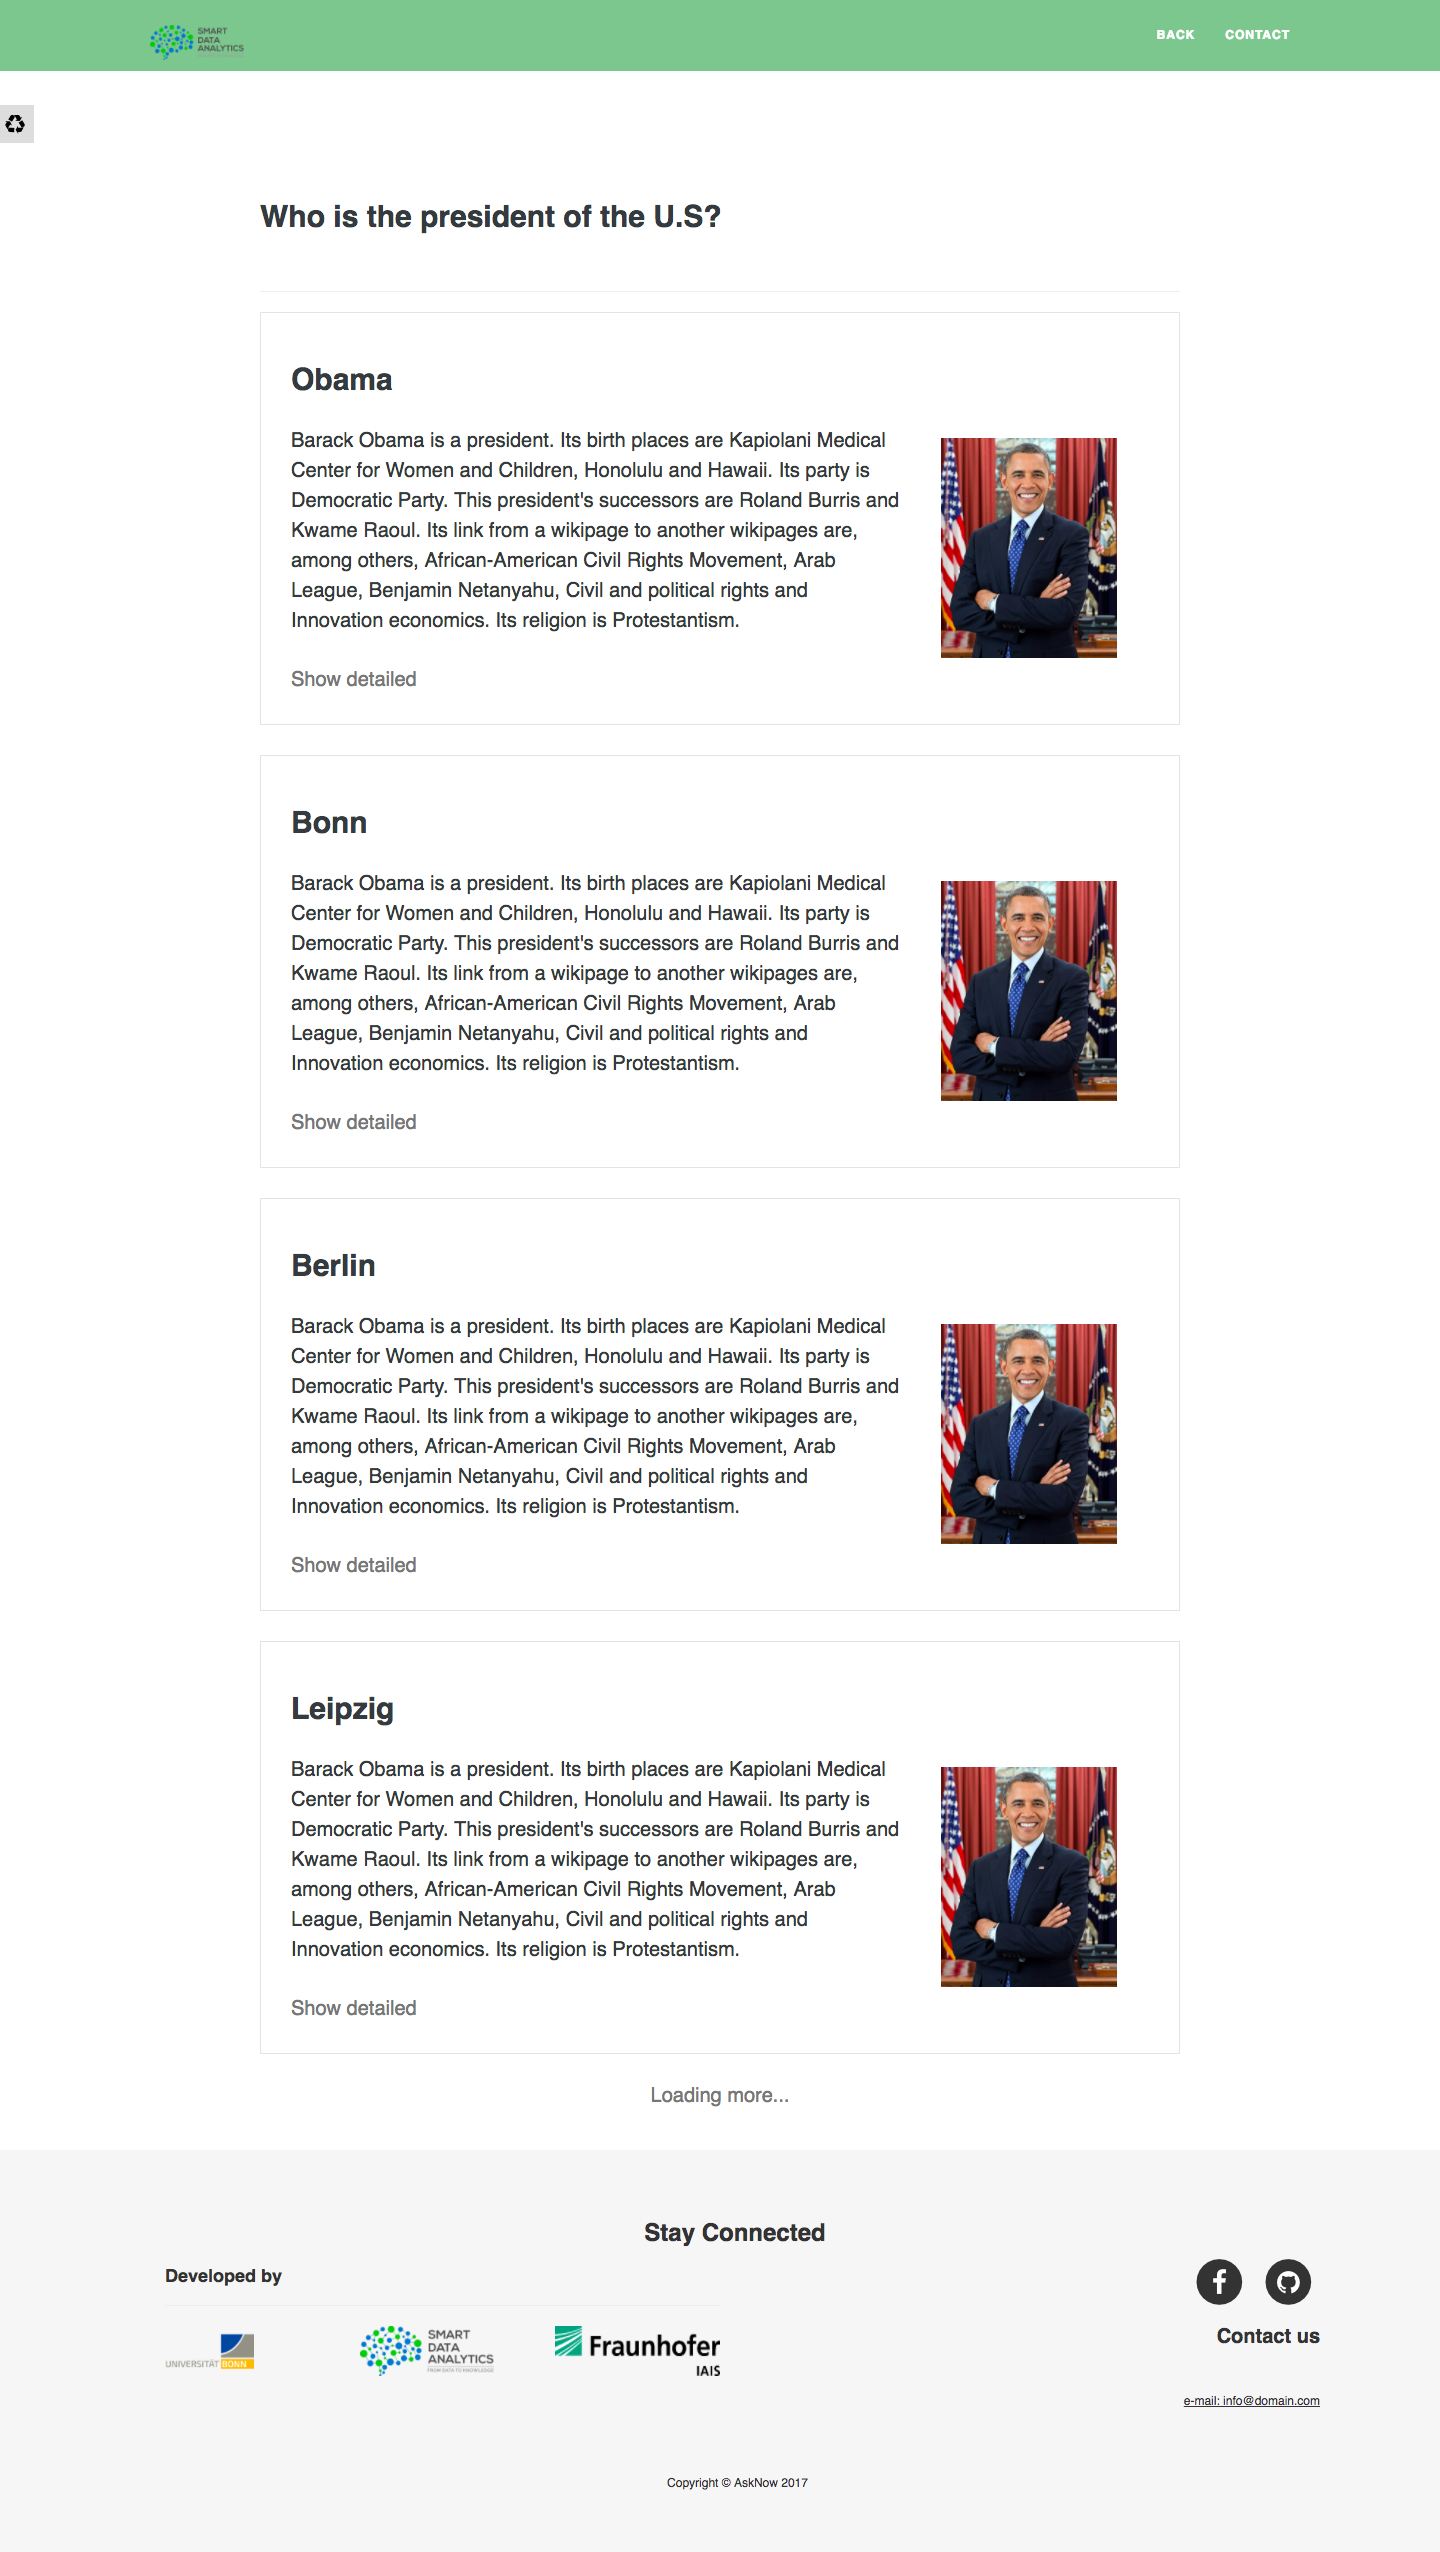
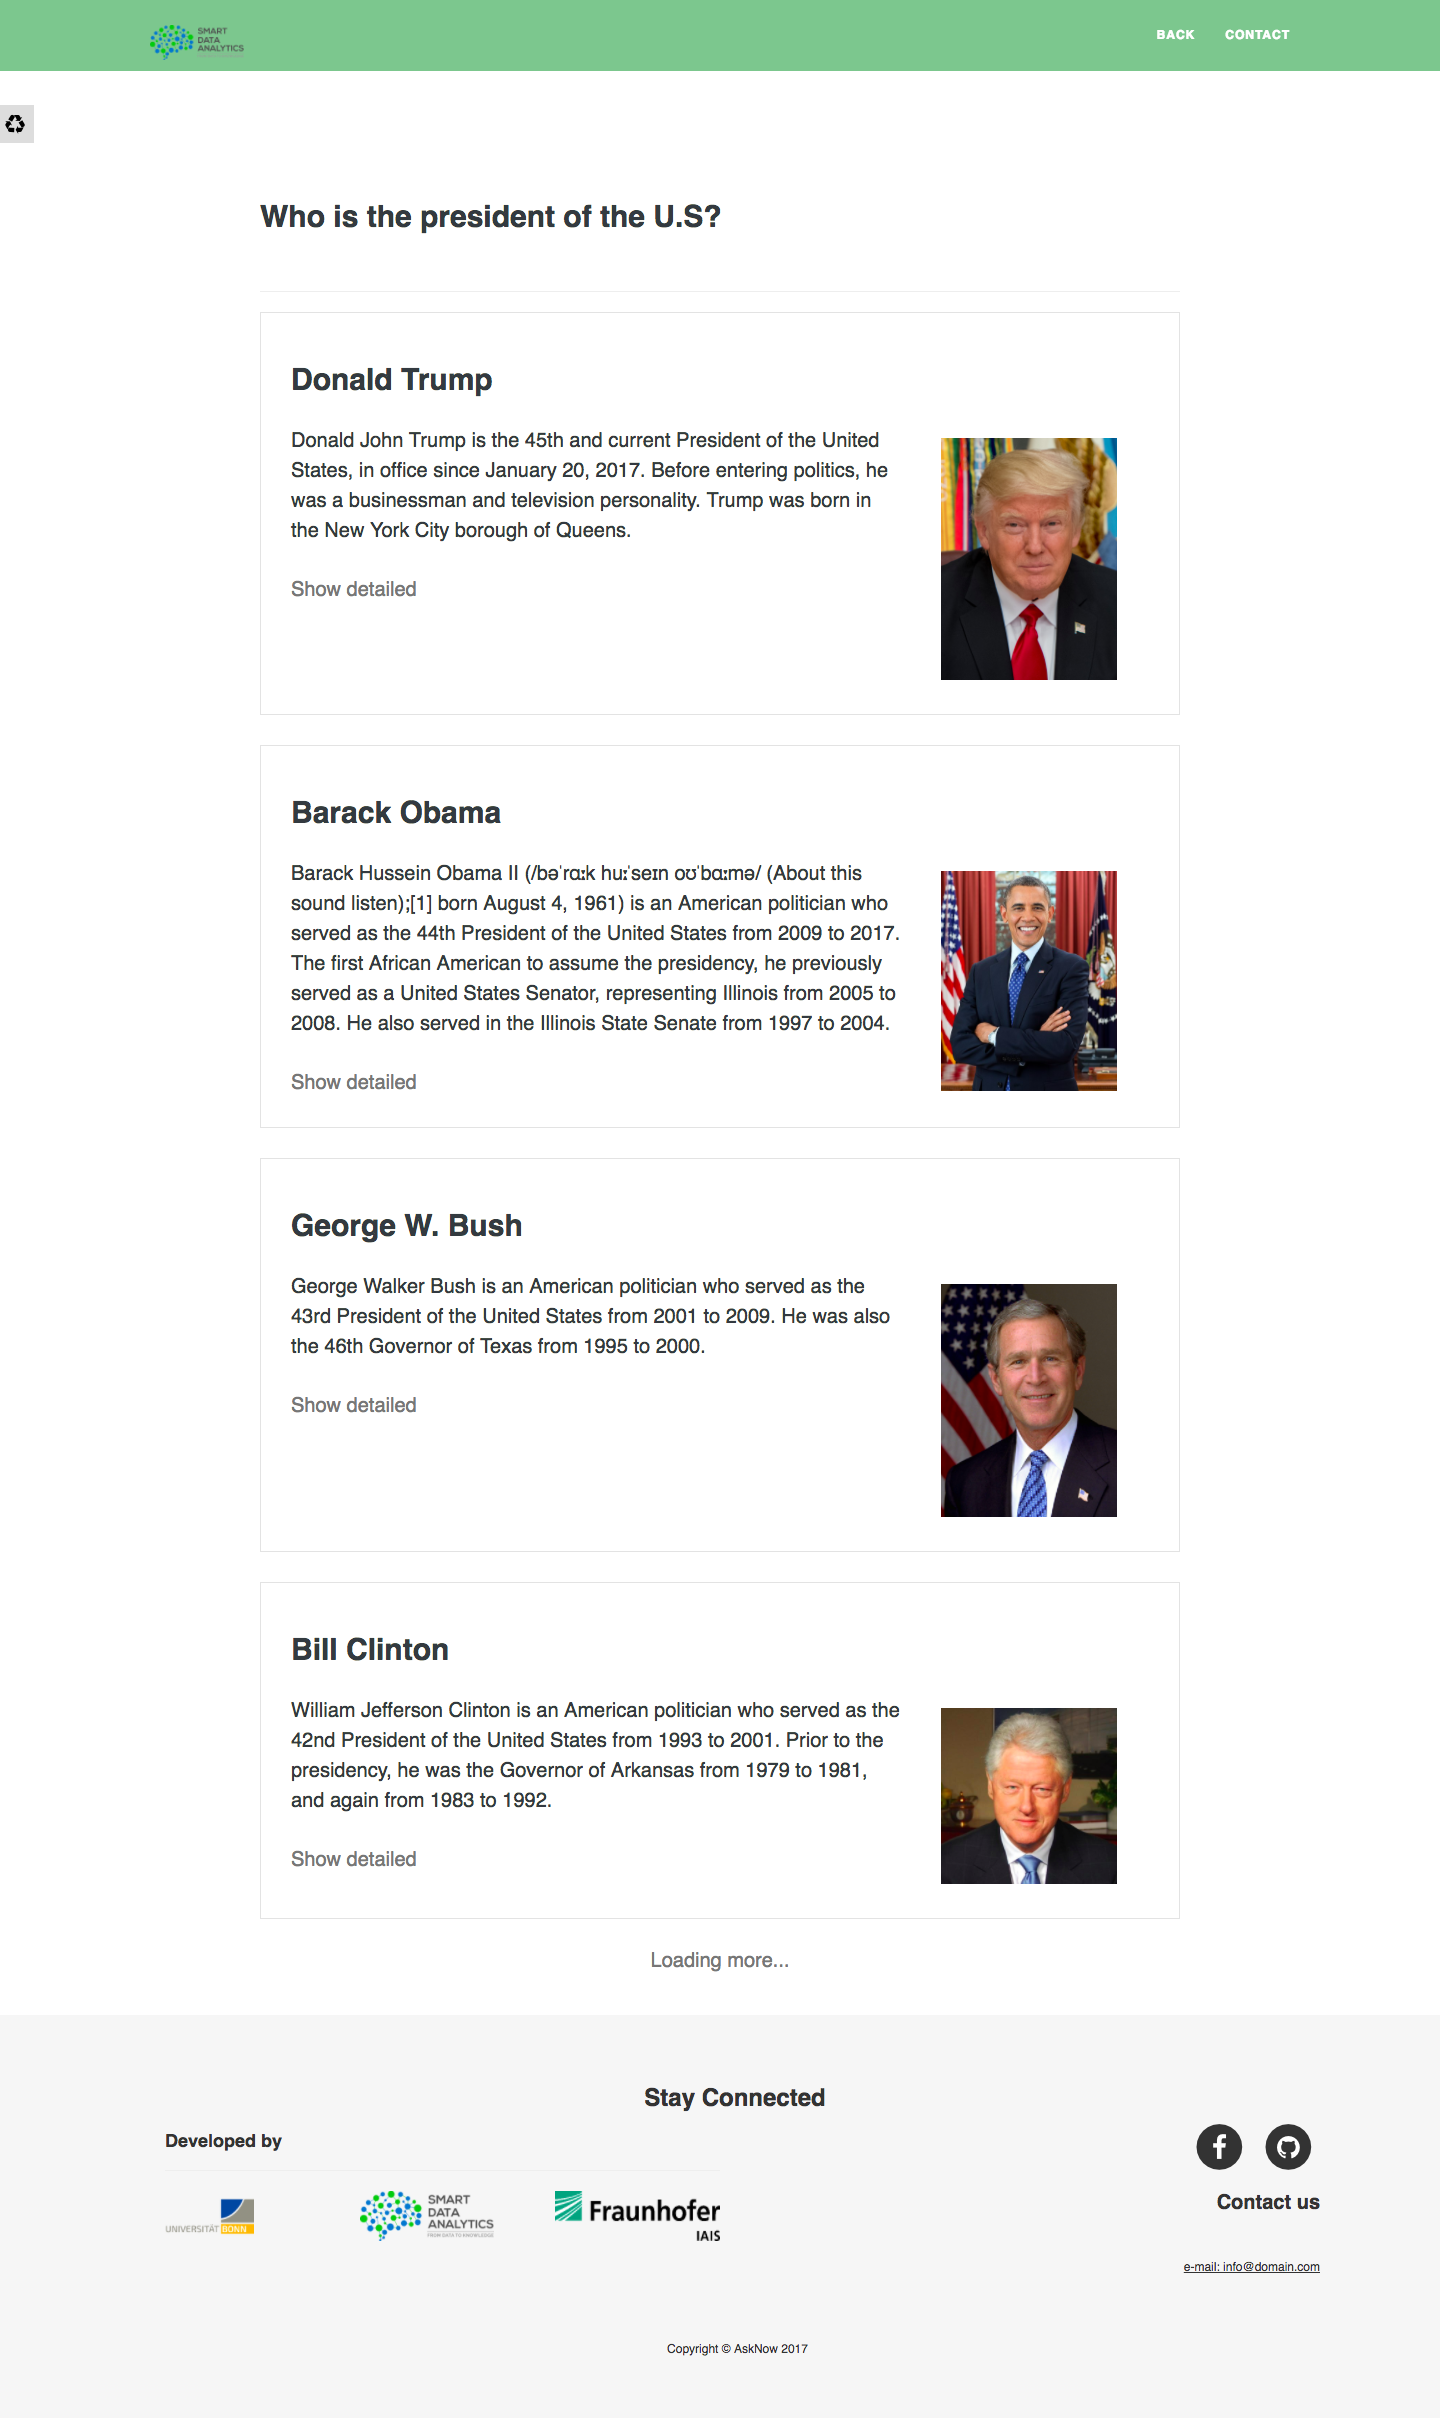
list

diff --git a/list.html b/list.html
@@ -68,36 +68,36 @@
             <div class="list">
                 <div class="list-item">
                     <div class="list-content">
-                        <h2>Obama</h2>
-                        <img  id="img1" class="listImg" src="assets/img/obama.jpg" />
-                        <p>Barack Obama is a president. Its birth places are Kapiolani Medical Center for Women and Children, Honolulu and Hawaii. Its party is Democratic Party. This president's successors are Roland Burris and Kwame Raoul. Its link from a wikipage to another wikipages are, among others, African-American Civil Rights Movement, Arab League, Benjamin Netanyahu, Civil and political rights and Innovation economics. Its religion is Protestantism.</p>
+                        <h2>Donald Trump</h2>
+                        <img  id="img1" class="listImg" src="assets/img/trump.jpg" />
+                        <p>Donald John Trump is the 45th and current President of the United States, in office since January 20, 2017. Before entering politics, he was a businessman and television personality. Trump was born in the New York City borough of Queens. </p>
                         <a href="resource.html">Show detailed</a>
                     </div>
                 </div>
 
                 <div class="list-item">
                     <div class="list-content">
-                        <h2>Bonn</h2>
+                        <h2>Barack Obama</h2>
                         <img  id="img2"  class="listImg" src="assets/img/obama.jpg" />
-                        <p>Barack Obama is a president. Its birth places are Kapiolani Medical Center for Women and Children, Honolulu and Hawaii. Its party is Democratic Party. This president's successors are Roland Burris and Kwame Raoul. Its link from a wikipage to another wikipages are, among others, African-American Civil Rights Movement, Arab League, Benjamin Netanyahu, Civil and political rights and Innovation economics. Its religion is Protestantism.</p>
+                        <p>Barack Hussein Obama II (/bəˈrɑːk huːˈseɪn oʊˈbɑːmə/ (About this sound listen);[1] born August 4, 1961) is an American politician who served as the 44th President of the United States from 2009 to 2017. The first African American to assume the presidency, he previously served as a United States Senator, representing Illinois from 2005 to 2008. He also served in the Illinois State Senate from 1997 to 2004.</p>
                         <a href="resource.html">Show detailed</a>
                     </div>
                 </div>
 
                 <div class="list-item">
                     <div class="list-content">
-                        <h2>Berlin</h2>
-                        <img id="img3"  class="listImg" src="assets/img/obama.jpg" />
-                        <p>Barack Obama is a president. Its birth places are Kapiolani Medical Center for Women and Children, Honolulu and Hawaii. Its party is Democratic Party. This president's successors are Roland Burris and Kwame Raoul. Its link from a wikipage to another wikipages are, among others, African-American Civil Rights Movement, Arab League, Benjamin Netanyahu, Civil and political rights and Innovation economics. Its religion is Protestantism.</p>
+                        <h2>George W. Bush</h2>
+                        <img id="img3"  class="listImg" src="assets/img/bush.jpg" />
+                        <p>George Walker Bush is an American politician who served as the 43rd President of the United States from 2001 to 2009. He was also the 46th Governor of Texas from 1995 to 2000. </p>
                         <a href="resource.html">Show detailed</a>
                     </div>
                 </div>
 
                 <div class="list-item">
                     <div class="list-content">
-                        <h2>Leipzig</h2>
-                        <img  id="img4" class="listImg" src="assets/img/obama.jpg" />
-                        <p>Barack Obama is a president. Its birth places are Kapiolani Medical Center for Women and Children, Honolulu and Hawaii. Its party is Democratic Party. This president's successors are Roland Burris and Kwame Raoul. Its link from a wikipage to another wikipages are, among others, African-American Civil Rights Movement, Arab League, Benjamin Netanyahu, Civil and political rights and Innovation economics. Its religion is Protestantism.</p>
+                        <h2>Bill Clinton</h2>
+                        <img  id="img4" class="listImg" src="assets/img/clinton.jpg" />
+                        <p>William Jefferson Clinton is an American politician who served as the 42nd President of the United States from 1993 to 2001. Prior to the presidency, he was the Governor of Arkansas from 1979 to 1981, and again from 1983 to 1992.</p>
                         <a href="resource.html">Show detailed</a>
                     </div>
                 </div>
